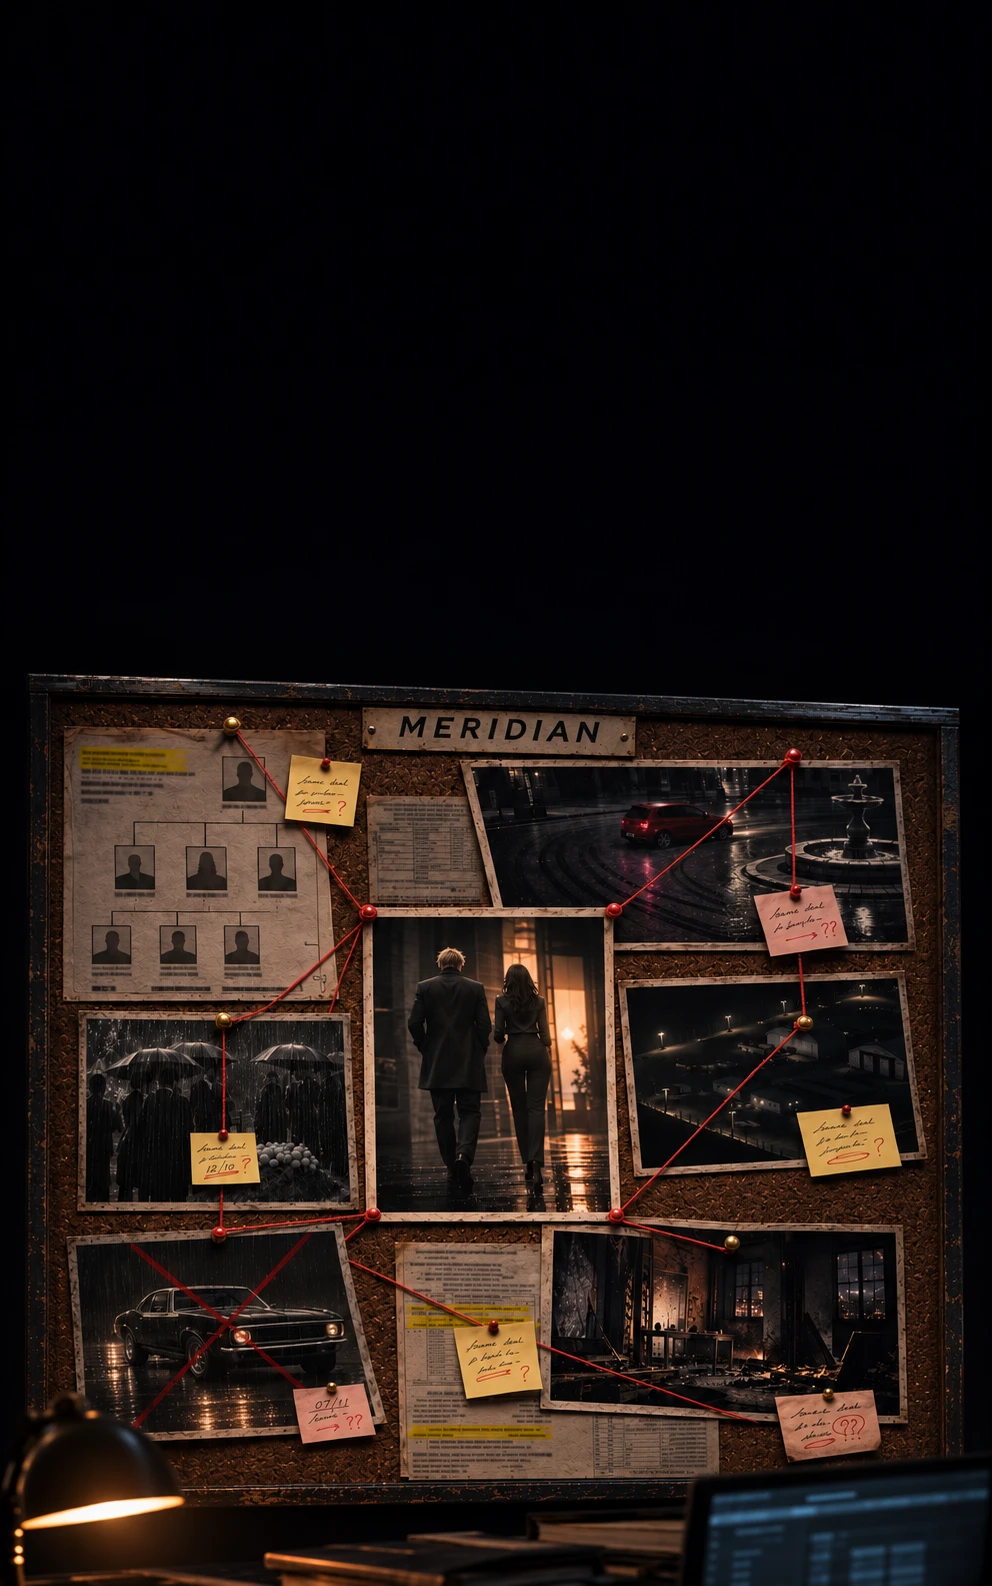
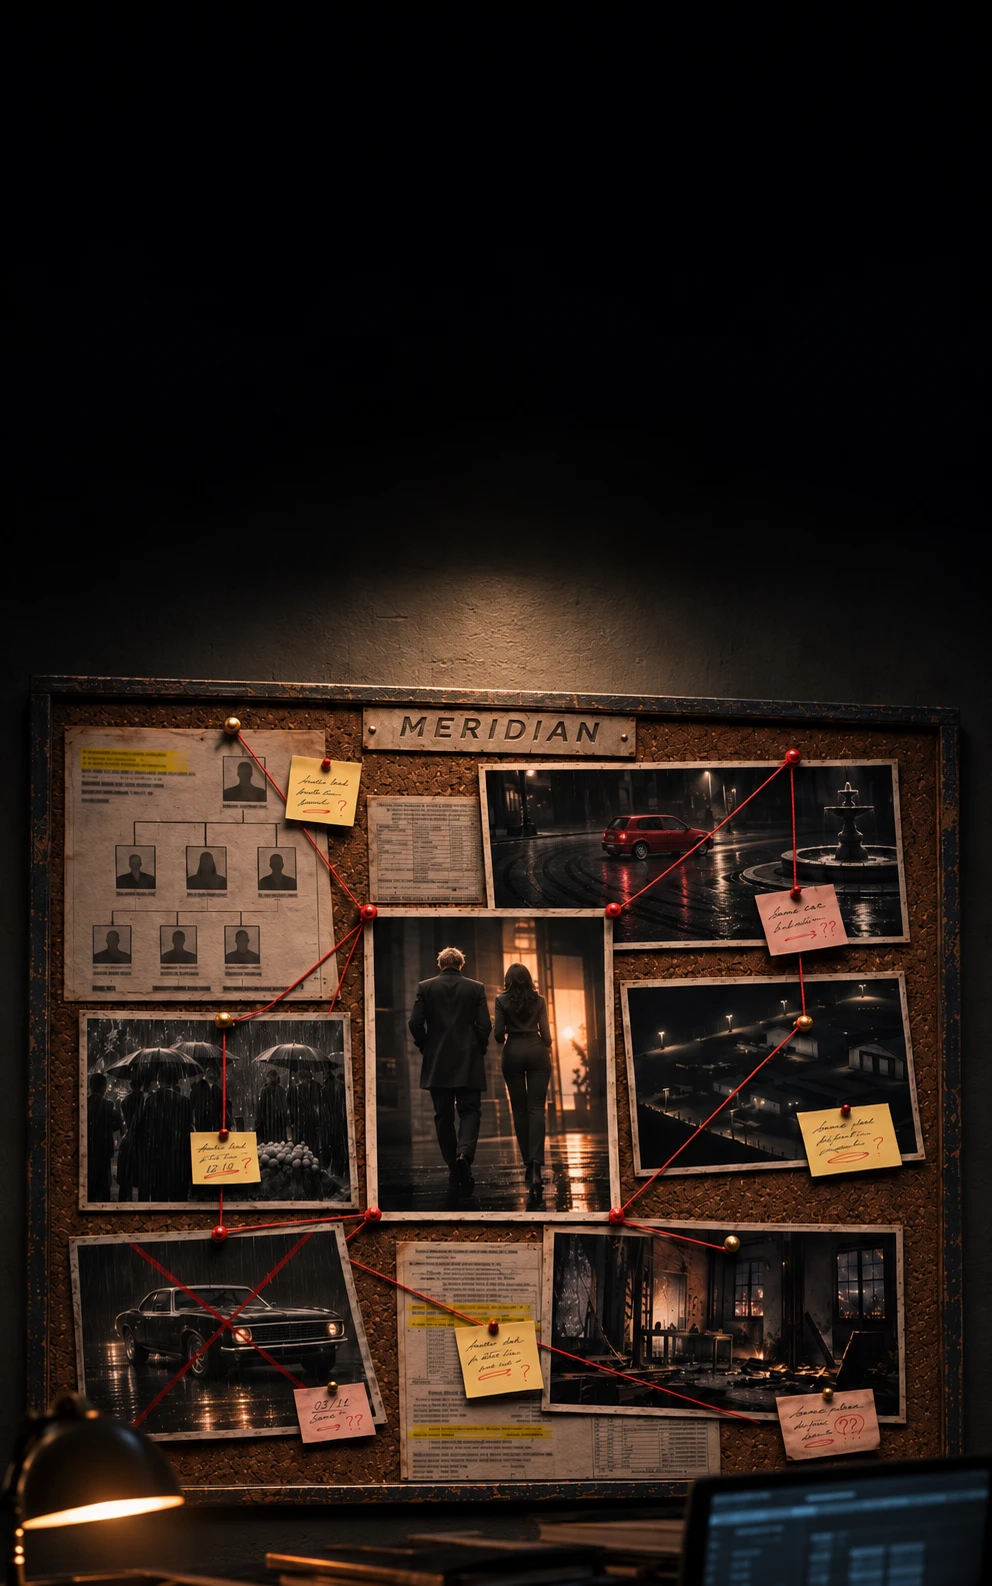
Portada del Libro IV: pared, luz cenital y la foto de la fuente enderezada

diff --git a/99_Reference/book_covers/00_Portada_Cuentas_De_Sangre_Hilo_Rojo.md b/99_Reference/book_covers/00_Portada_Cuentas_De_Sangre_Hilo_Rojo.md
@@ -81,11 +81,11 @@ Camino que llevó a la base, con indicaciones del autor en cada paso:
 1. El v3 (pizarra blanca de cerca) acertó en las fotos de evidencia, pero el círculo y las flechas de plumón «no pueden volar»: el autor quiere **corcho con hilo rojo**.
 2. Edición: corcho, alfileres e hilo en lugar de plumón. Después: el hilo **tenso** (no flojo), alfileres en las cuatro esquinas de la foto central para que ningún hilo la cruce, **post-its** con notas a mano, el **Camaro del 67** (canon de Meiko), tres conexiones adyacentes (entierro–Camaro, fuente–base; la del loft no salió) y todas las piezas también hacia ellos, con **hilo físico atado a tachuelas** («EVITAR HILOS DIGITALES»).
 3. Edición final: alejar la cámara para dejar pared oscura arriba, donde va el título; sin título se ve rara, con título funciona.
+4. Última edición, a pedido del autor: el tablero montado en una **pared** de concreto oscuro, con **luz cenital** que cae sobre él (el halo queda bajo el título), y la foto de la fuente **enderezada** (salía en romboide), con el coche cambiado a un hatchback rojo de tres puertas de los noventa, sin logotipo.
 
 - **Base:** [[99_Reference/book_covers/Cuentas_De_Sangre_Tablero_base.webp]] (992 × 1586).
 - **Portada:** [[99_Reference/book_covers/Cuentas_De_Sangre_Tablero_v1.png]] (2560 × 4096), con `python -B tools/portada/componer_portada.py --libro cuentas --base 99_Reference/book_covers/Cuentas_De_Sangre_Tablero_base.webp --salida 99_Reference/book_covers/Cuentas_De_Sangre_Tablero_v1.png`. Tipografía de la saga con «LIBRO IV» y «Sangre» con inicial alta.
 - **Kal y Chiara:** de espaldas; 1.92 m y 1.80 m (con tacones casi a la par). Referencias adjuntas: Kal_Mercer_Invierno y Chiara_Bellandi (no la de invierno: pelo corto).
-- **Detalle no corregido:** el coche rojo de la fuente es un hatchback moderno, no un Peugeot 106 XSi; en el fotograma granulado casi no se nota.
 
 ## Pendiente
 
